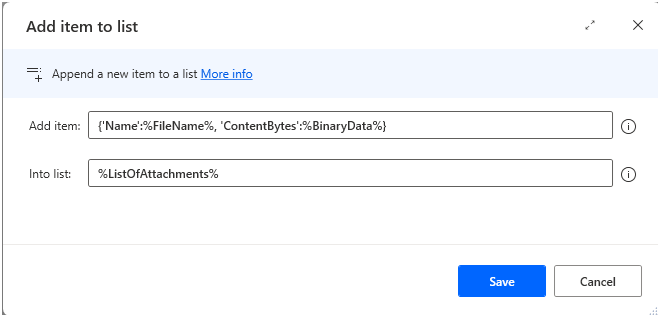
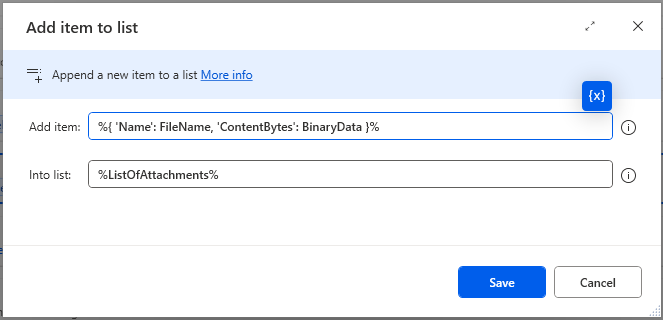
fix syntax for attachment object in PAD - SendEmailV2 action

diff --git a/articles/desktop-flows/actions-reference/office365outlook.md b/articles/desktop-flows/actions-reference/office365outlook.md
@@ -94,7 +94,7 @@ The name of the file is needed for the respective property representing it. Use 
 Then add the custom object representing the file in the list of file attachments. To do that, use the **Add item to list** action. In the **Item** property, reference the custom object using the following syntax:
 
 ```robin
-{'Name': %variable holding the file name%, 'ContentBytes': %variable containing the binary data%}
+%{ 'Name': variable_holding_the_file_name , 'ContentBytes': variable_containing_the_binary_data }%
 ```
 
 :::image type="content" source="media\office365outlook\add-item-to-list.png" alt-text="Screenshot of the Add item to list action.":::
